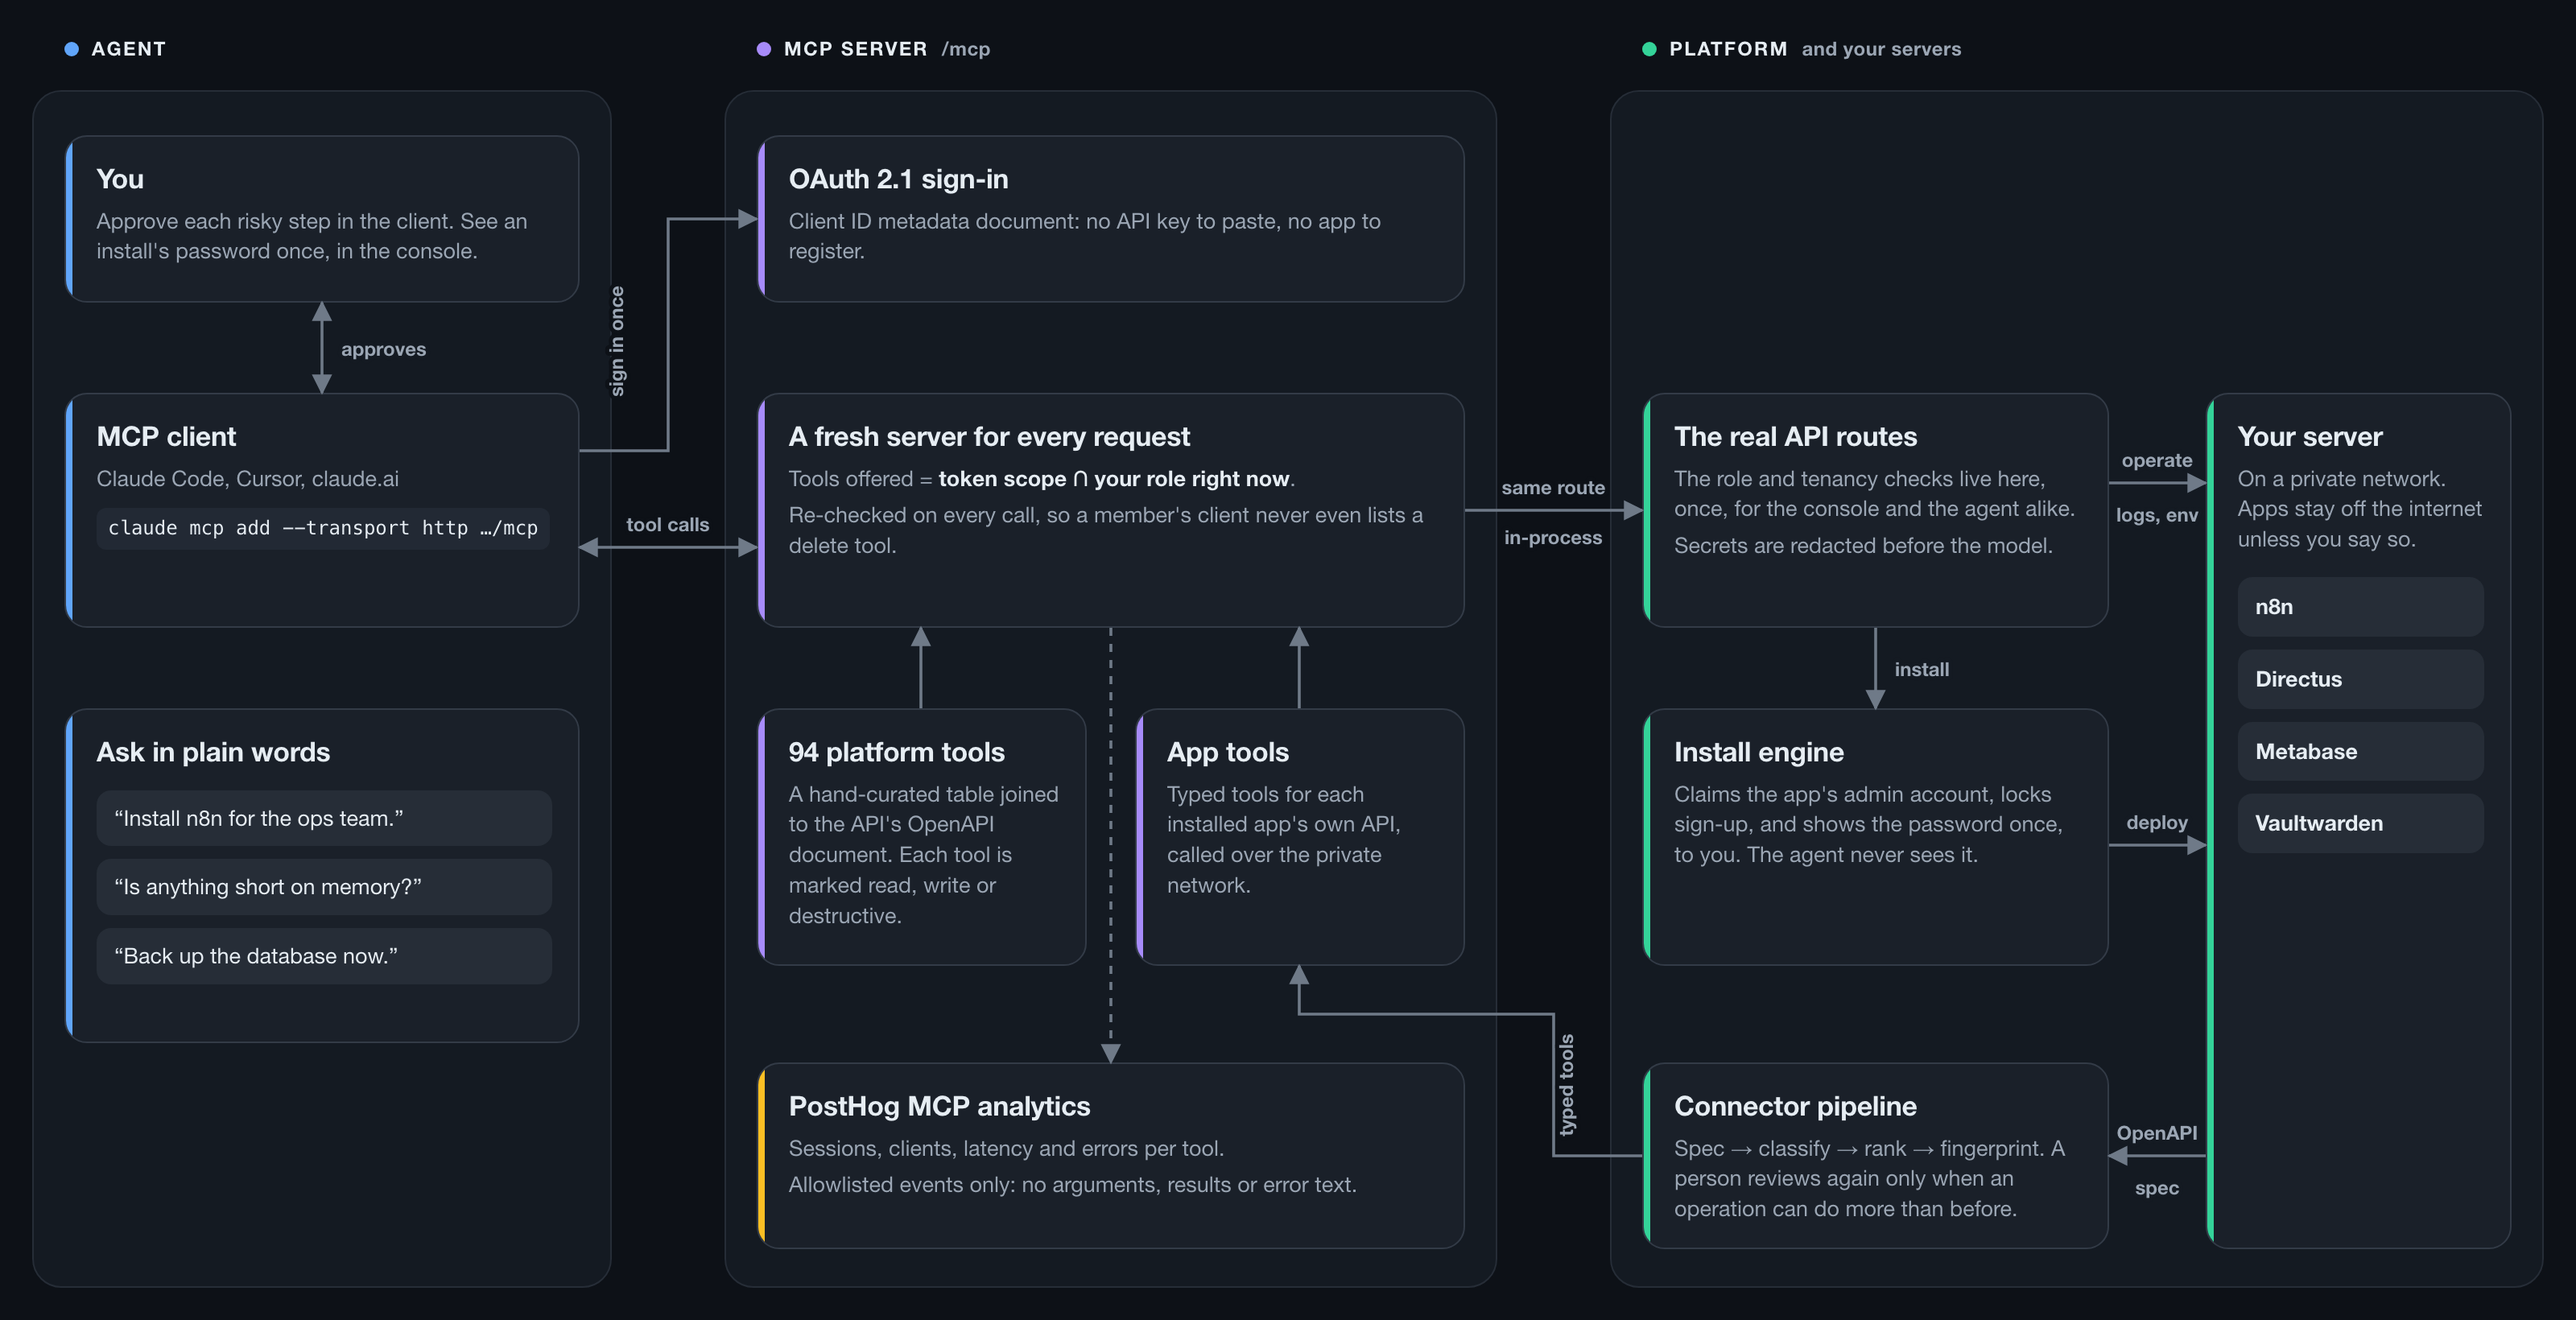
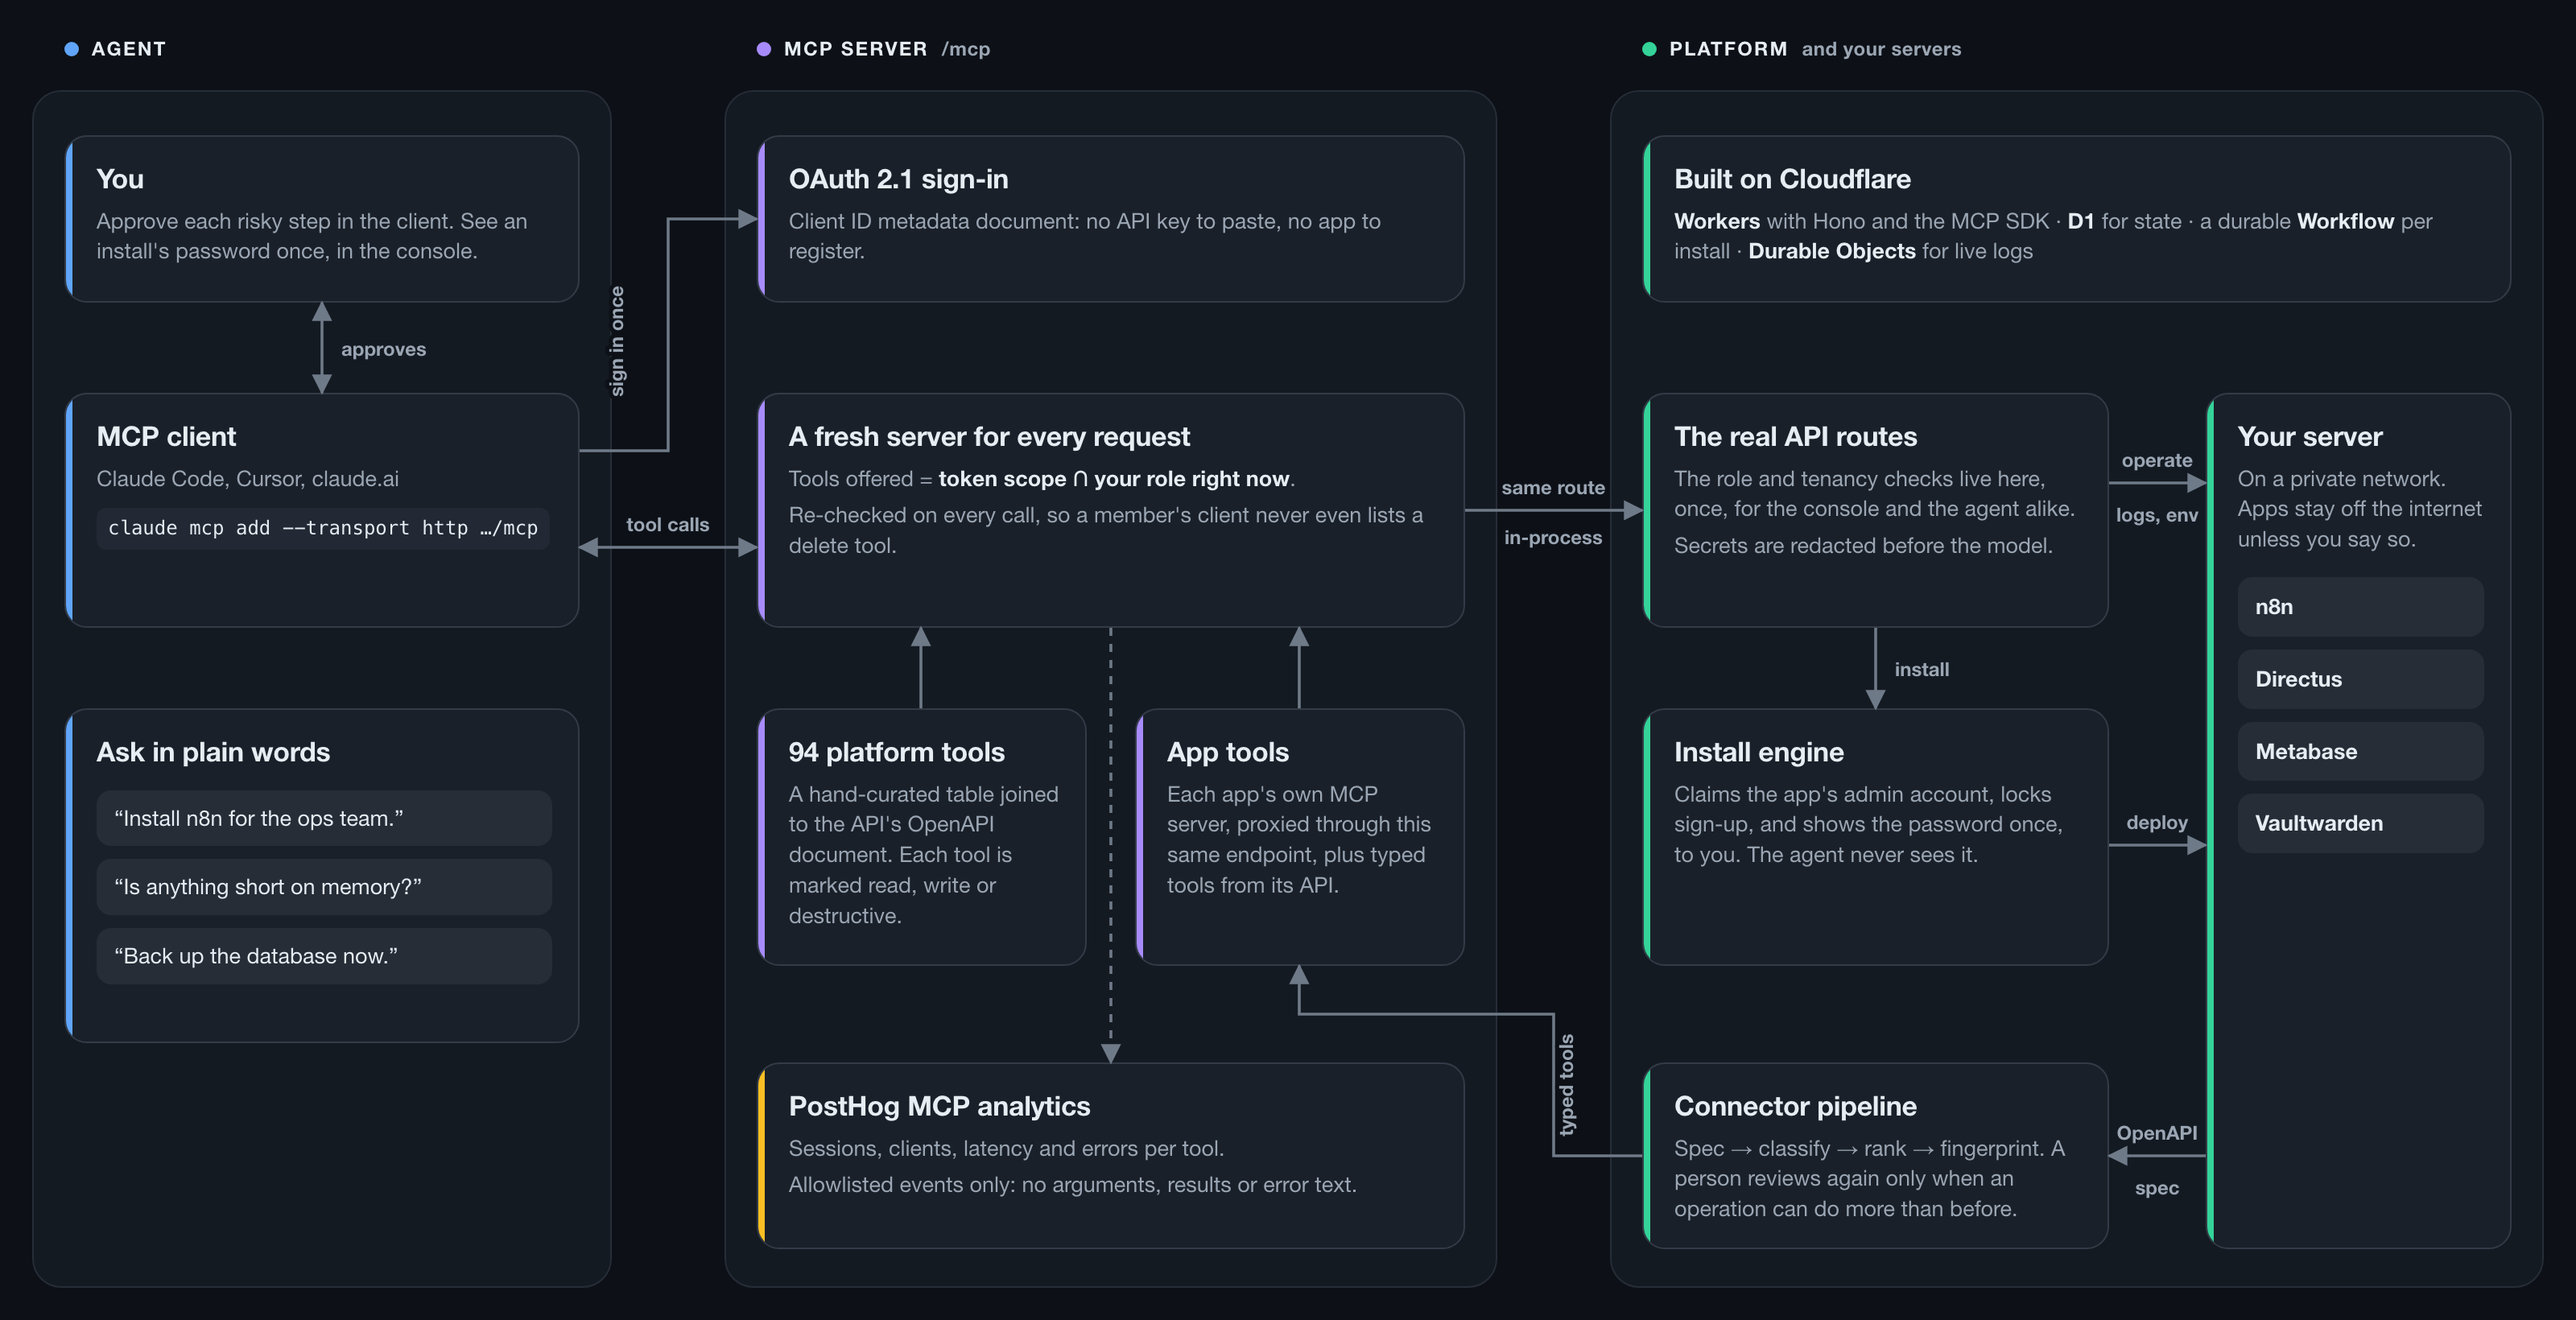
docs: show the Cloudflare stack and proxied app MCP servers in the diagram

Changed region(s): [[0.625, 0.1244, 0.9375, 0.2177], [0.4375, 0.5909, 0.5625, 0.6841]]

diff --git a/docs/diagram/how-it-fits.html b/docs/diagram/how-it-fits.html
@@ -118,7 +118,7 @@
 </div>
 <div class="card mcp" style="left:705px;top:440px;width:205px;height:160px">
   <div class="t">App tools</div>
-  <div class="s">Typed tools for each installed app's own API, called over the private network.</div>
+  <div class="s">Each app's own MCP server, proxied through this same endpoint, plus typed tools from its API.</div>
 </div>
 <div class="card analytics" style="left:470px;top:660px;width:440px;height:116px">
   <div class="t">PostHog MCP analytics</div>
@@ -127,6 +127,10 @@
 </div>
 
 <!-- Platform -->
+<div class="card platform" style="left:1020px;top:84px;width:540px;height:104px">
+  <div class="t">Built on Cloudflare</div>
+  <div class="s"><b>Workers</b> with Hono and the MCP SDK · <b>D1</b> for state · a durable <b>Workflow</b> per install · <b>Durable Objects</b> for live logs</div>
+</div>
 <div class="card platform" style="left:1020px;top:244px;width:290px;height:146px">
   <div class="t">The real API routes</div>
   <div class="s">The role and tenancy checks live here, once, for the console and the agent alike.</div>
